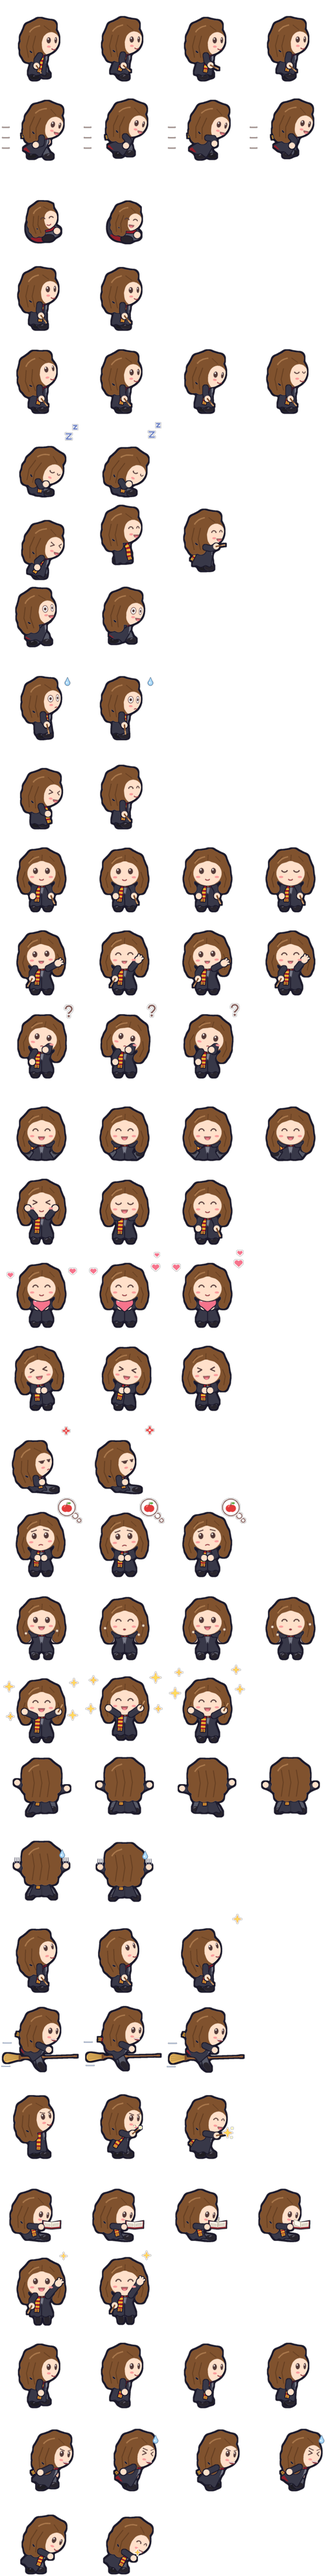
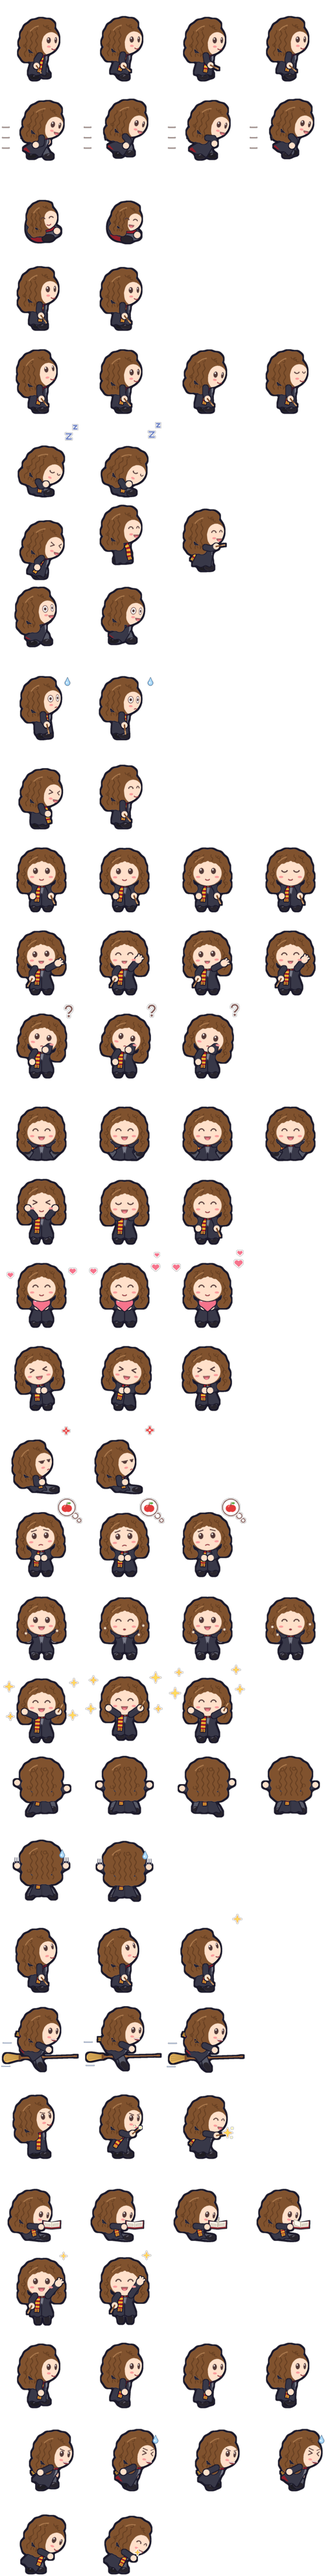
art(wizards): softer tufts for Harry, curly ramen-noodle hair for Hermione
Claude-Session: https://claude.ai/code/session_01QTKFeh88WdMrEuDr7Y72ss

diff --git a/tools/draw_hermione.py b/tools/draw_hermione.py
@@ -1,4 +1,4 @@
-"""헤르미온느 📚 — 갈색 부스스한 긴 머리, 검은 로브 + 그리핀도르 목도리, 짙은 나무 지팡이의 꼬마 마법사 펫(hermione).
+"""헤르미온느 📚 — 라면처럼 꼬불꼬불한 갈색 곱슬 긴 머리, 검은 로브 + 그리핀도르 목도리, 짙은 나무 지팡이의 꼬마 마법사 펫(hermione).
 몸·공통 동작은 draw_wizard를 쓰고, 여기서는 생김새(Look)·헤르미온느만의 동작·등록만.
 
     python tools/draw_hermione.py → ui/pets/hermione/{sheet_<stage>.png ×5, pet.json} + tools/preview/{stages_hermione,climb_hermione,wizard_hermione}.png
@@ -28,50 +28,79 @@ PAGE, PAGE_LINE = (255, 250, 238), (188, 178, 160)  # 책장·글줄
 
 
 def puffs(pts, r):
-    """부스스한 머리 덩어리: 점마다 동그라미 (녹이면 물결치는 실루엣)."""
+    """부스스한 머리 덩어리: 점마다 동그라미 (녹이면 몽글몽글 물결치는 실루엣)."""
     return [C(x, y, rr * r) for x, y, rr in pts]
 
 
+def squiggle(a, b, n, amp, w=1.1, ph=0.0):
+    """a → b 사이를 꼬불꼬불 (사인 물결 n번) 지나는 라면 머리 가닥."""
+    (x0, y0), (x1, y1) = a, b
+    ln = math.hypot(x1 - x0, y1 - y0) or 1.0
+    nx, ny = -(y1 - y0) / ln, (x1 - x0) / ln
+    k = max(8, int(n * 6))
+    pts = []
+    for j in range(k + 1):
+        t = j / k
+        o = amp * math.sin(t * n * 2 * math.pi + ph)
+        pts.append((x0 + (x1 - x0) * t + nx * o, y0 + (y1 - y0) * t + ny * o))
+    return L(pts, w)
+
+
+def curl(x, y, r, a0=30, w=1.0):
+    """동그랗게 말린 곱슬 한 올 (C자 고리)."""
+    return L(dp.arc(x, y, r, r, a0, a0 + 270, 9), w)
+
+
 def hermione_hair(view_, hx, hy, hrx, hry, q):
-    """부스스한 갈색 긴 머리: 머리 둘레를 울퉁불퉁 부풀려 어깨 아래까지 (뒷모습은 등을 덮되 벽 짚은 두 손은 보임), 얼굴은 가운데 가르마 앞머리가 감쌈.
+    """라면처럼 꼬불꼬불한 갈색 곱슬 긴 머리: 머리 둘레를 작은 동그라미로 촘촘히 부풀려 (몽글몽글 곱슬 실루엣) 어깨 아래까지,
+    안에는 꼬불꼬불 가닥·말린 고리 (뒷모습은 등을 덮되 벽 짚은 두 손은 보임), 얼굴은 가운데 가르마 앞머리가 감쌈 (눈은 가리지 않음).
     → (머리 도형에 더할 도형, 삐죽 조각, 머리 안 무늬)."""
     R = hrx
     big = [T((hx - hrx * 3, hy - hry * 3), (hx + hrx * 3, hy - hry * 3), (hx + hrx * 3, hy + hry * 3), (hx - hrx * 3, hy + hry * 3))]
-    shine = [L(dp.arc(hx, hy - 0.05 * hry, hrx * 0.86, hry * 0.86, 210, 258, 8), 2.0)]
+    shine = [L(dp.arc(hx, hy - 0.05 * hry, hrx * 0.86, hry * 0.86, 214, 252, 8), 1.8)]
+    amp = 0.06 * hrx
 
     def ring_(a0, a1, step, rx, ry, dy=0.0):
-        """머리 둘레 a0..a1도에 울퉁불퉁 (크고 작은 동그라미 번갈아) 머리숱."""
-        return [(hx + math.cos(math.radians(a)) * hrx * rx, hy + math.sin(math.radians(a)) * hry * ry + dy * hry, 0.34 if k % 2 else 0.27)
+        """머리 둘레 a0..a1도에 몽글몽글 (크고 작은 동그라미 번갈아) 곱슬 머리숱."""
+        return [(hx + math.cos(math.radians(a)) * hrx * rx, hy + math.sin(math.radians(a)) * hry * ry + dy * hry, 0.28 if k % 2 else 0.22)
                 for k, a in enumerate(range(a0, a1 + 1, step))]
+
+    def P(a, b):
+        """머리 크기 비율 좌표 → 그림 좌표."""
+        return (hx + a * hrx, hy + b * hry)
     if view_ == "back":
-        pts = ring_(-170, -10, 20, 0.92, 0.96)
-        pts += [(hx + sd * hrx * 0.86, hy + k * hry, 0.3) for sd in (-1, 1) for k in (0.2, 0.65)]
-        pts += [(hx + dx * hrx, hy + 1.18 * hry, 0.3 if abs(dx) > 0.5 else 0.34) for dx in (-0.66, -0.22, 0.22, 0.66)]
-        waves = [L([(hx + dx * hrx, hy - 0.5 * hry), (hx + (dx + 0.12) * hrx, hy + 0.3 * hry), (hx + dx * hrx, hy + 1.2 * hry)], 1.3) for dx in (-0.55, -0.1, 0.35)]
-        return puffs(pts, R), [], [(big, HAIR), (waves, HAIR_DARK), (shine, HAIR_HI)]
+        pts = ring_(-174, -6, 12, 1.04, 1.04)
+        pts += [(hx + sd * hrx * 0.92, hy + k * hry, 0.29 if j % 2 else 0.2) for sd in (-1, 1) for j, k in enumerate((0.1, 0.42, 0.74, 1.0))]
+        pts += [(hx + dx * hrx, hy + 1.2 * hry, 0.25 if j % 2 else 0.29) for j, dx in enumerate((-0.72, -0.42, -0.14, 0.14, 0.42, 0.72))]
+        waves = [squiggle(P(dx, -0.7), P(dx + 0.04, 1.15), 3.5, amp, 1.2, dx * 5) for dx in (-0.62, -0.3, 0.02, 0.34, 0.64)]
+        curls = [curl(*P(a, b), 0.1 * hrx, a0) for a, b, a0 in ((-0.5, -0.55, 200), (0.2, -0.6, 20), (-0.75, 0.6, 300), (0.78, 0.5, 120))]
+        return puffs(pts, R), [], [(big, HAIR), (waves + curls, HAIR_DARK), (shine, HAIR_HI)]
     if view_ == "front":
-        pts = ring_(-180, 0, 20, 0.98, 0.98, -0.08)
-        pts += [(hx + sd * hrx * 1.08, hy + k * hry, 0.32 if j % 2 else 0.27) for sd in (-1, 1) for j, k in enumerate((0.2, 0.55, 0.9))]
-        pts += [(hx + sd * hrx * 0.94, hy + 1.2 * hry, 0.28) for sd in (-1, 1)]
+        pts = ring_(-186, 6, 12, 1.06, 1.04, -0.08)
+        pts += [(hx + sd * hrx * (1.08 + 0.04 * (j % 2)), hy + k * hry, 0.29 if j % 2 else 0.2) for sd in (-1, 1)
+                for j, k in enumerate((0.1, 0.38, 0.66, 0.94))]
+        pts += [(hx + sd * hrx * dx, hy + 1.2 * hry, 0.24) for sd in (-1, 1) for dx in (0.84, 1.06)]
         face = [E(hx - 0.84 * hrx, hy - 0.62 * hry, hx + 0.84 * hrx, hy + 1.0 * hry)]
-        fringe = [T((hx - 1.2 * hrx, hy - 1.6 * hry), (hx + 1.2 * hrx, hy - 1.6 * hry), (hx + 1.0 * hrx, hy + 0.1 * hry), (hx + 0.78 * hrx, hy - 0.22 * hry),
-                    (hx + 0.52 * hrx, hy - 0.46 * hry), (hx + 0.22 * hrx, hy - 0.56 * hry), (hx + 0.02 * hrx, hy - 0.66 * hry),
-                    (hx - 0.24 * hrx, hy - 0.54 * hry), (hx - 0.54 * hrx, hy - 0.44 * hry), (hx - 0.8 * hrx, hy - 0.2 * hry), (hx - 1.0 * hrx, hy + 0.1 * hry))]
-        waves = [L([(hx + sd * 0.98 * hrx, hy + 0.1 * hry), (hx + sd * 1.12 * hrx, hy + 0.55 * hry), (hx + sd * 1.0 * hrx, hy + 1.1 * hry)], 1.3) for sd in (-1, 1)]
-        waves += [L([(hx + sd * 0.5 * hrx, hy - 0.9 * hry), (hx + sd * 0.75 * hrx, hy - 0.6 * hry)], 1.1) for sd in (-1, 1)]
-        waves += [L([(hx + 0.02 * hrx, hy - 0.66 * hry), (hx + 0.04 * hrx, hy - 1.0 * hry)], 1.1)]
-        return puffs(pts, R), [], [(big, HAIR), (face, wz.look().skin), (fringe, HAIR), (waves, HAIR_DARK), (shine, HAIR_HI)]
+        fringe = [T(P(-1.2, -1.6), P(1.2, -1.6), P(1.0, 0.1), P(0.88, -0.08), P(0.78, -0.22), P(0.66, -0.3), P(0.52, -0.46), P(0.38, -0.46),
+                    P(0.22, -0.56), P(0.12, -0.56), P(0.02, -0.66), P(-0.1, -0.56), P(-0.24, -0.54), P(-0.38, -0.44), P(-0.54, -0.44),
+                    P(-0.66, -0.3), P(-0.8, -0.2), P(-0.9, -0.06), P(-1.0, 0.1))]
+        waves = [squiggle(P(sd * 1.0, -0.2), P(sd * 1.02, 1.15), 3.0, amp, 1.2, sd) for sd in (-1, 1)]
+        waves += [squiggle(P(sd * 0.5, -0.98), P(sd * 0.82, -0.5), 1.5, amp * 0.8, 1.0) for sd in (-1, 1)]
+        waves += [squiggle(P(sd * 0.22, -1.02), P(sd * 0.3, -0.62), 1.2, amp * 0.7, 1.0) for sd in (-1, 1)]
+        curls = [curl(*P(sd * 1.1, b), 0.09 * hrx, a0) for sd in (-1, 1) for b, a0 in ((0.25, 90 + sd * 60), (0.85, 270 - sd * 60))]
+        curls += [curl(*P(sd * 0.68, -0.86), 0.08 * hrx, 200 if sd < 0 else -20) for sd in (-1, 1)]
+        return puffs(pts, R), [], [(big, HAIR), (face, wz.look().skin), (fringe, HAIR), (waves + curls, HAIR_DARK), (shine, HAIR_HI)]
     # 옆모습 (오른쪽을 봄): 앞쪽은 이마를 덮는 앞머리, 뒤로는 크게 부풀어 등까지
-    pts = ring_(-200, -60, 20, 0.96, 0.98, -0.05)
-    pts += [(hx - hrx * 1.0, hy + k * hry, 0.34 if j % 2 else 0.28) for j, k in enumerate((0.0, 0.45, 0.9))]
-    pts += [(hx + dx * hrx, hy + 1.2 * hry, 0.3) for dx in (-0.8, -0.38)]
+    pts = ring_(-204, -54, 12, 1.04, 1.04, -0.05)
+    pts += [(hx - hrx * (1.02 + 0.06 * (j % 2)), hy + k * hry, 0.3 if j % 2 else 0.21) for j, k in enumerate((-0.05, 0.28, 0.6, 0.92))]
+    pts += [(hx + dx * hrx, hy + 1.2 * hry, 0.25 if j % 2 else 0.28) for j, dx in enumerate((-0.92, -0.62, -0.32))]
     face = [E(hx - 0.02 * hrx, hy - 0.5 * hry, hx + 1.1 * hrx, hy + 1.05 * hry)]
-    fringe = [T((hx - 1.3 * hrx, hy - 1.6 * hry), (hx + 1.3 * hrx, hy - 1.6 * hry), (hx + 1.12 * hrx, hy - 0.4 * hry), (hx + 0.86 * hrx, hy - 0.5 * hry),
-                (hx + 0.56 * hrx, hy - 0.56 * hry), (hx + 0.3 * hrx, hy - 0.5 * hry), (hx + 0.08 * hrx, hy - 0.26 * hry), (hx - 0.02 * hrx, hy + 0.2 * hry),
-                (hx + 0.02 * hrx, hy + 0.7 * hry), (hx - 0.3 * hrx, hy + 1.5 * hry), (hx - 1.3 * hrx, hy + 1.5 * hry))]
-    waves = [L([(hx - dx * hrx, hy - 0.2 * hry), (hx - (dx + 0.14) * hrx, hy + 0.5 * hry), (hx - dx * hrx, hy + 1.2 * hry)], 1.3) for dx in (0.4, 0.78)]
-    waves += [L([(hx + 0.1 * hrx, hy - 0.9 * hry), (hx + 0.45 * hrx, hy - 0.62 * hry)], 1.1)]
-    return puffs(pts, R), [], [(big, HAIR), (face, wz.look().skin), (fringe, HAIR), (waves, HAIR_DARK), (shine, HAIR_HI)]
+    fringe = [T(P(-1.3, -1.6), P(1.3, -1.6), P(1.12, -0.4), P(0.98, -0.5), P(0.86, -0.46), P(0.72, -0.58), P(0.56, -0.52), P(0.42, -0.6),
+                P(0.3, -0.48), P(0.16, -0.42), P(0.08, -0.26), P(-0.02, 0.2), P(0.02, 0.7), P(-0.3, 1.5), P(-1.3, 1.5))]
+    waves = [squiggle(P(-dx, -0.5), P(-dx - 0.06, 1.15), 3.0, amp, 1.2, dx * 4) for dx in (0.3, 0.62, 0.92)]
+    waves += [squiggle(P(0.05, -0.95), P(0.5, -0.66), 1.5, amp * 0.8, 1.0)]
+    curls = [curl(*P(a, b), 0.09 * hrx, a0) for a, b, a0 in ((-0.4, -0.7, 200), (-1.0, 0.45, 300), (-0.5, 1.0, 120), (0.3, -0.84, 20))]
+    return puffs(pts, R), [], [(big, HAIR), (face, wz.look().skin), (fringe, HAIR), (waves + curls, HAIR_DARK), (shine, HAIR_HI)]
 
 
 def apple_bubble_fx(cx, cy, r=12.0):

diff --git a/tools/draw_harry.py b/tools/draw_harry.py
@@ -1,4 +1,4 @@
-"""해리포터 🧙 — 둥근 까만 안경, 이마의 번개 흉터, 덥수룩 삐죽 까만 머리, 검은 로브 + 그리핀도르 목도리, 밝은 나무 지팡이의 꼬마 마법사 펫(harry).
+"""해리포터 🧙 — 둥근 까만 안경, 이마의 번개 흉터, 덥수룩 몽글몽글 까만 머리, 검은 로브 + 그리핀도르 목도리, 밝은 나무 지팡이의 꼬마 마법사 펫(harry).
 몸·동작은 draw_wizard (볼드모트도 나중에 같은 몸)를 쓰고, 여기서는 생김새(Look)와 등록만.
 
     python tools/draw_harry.py → ui/pets/harry/{sheet_<stage>.png ×5, pet.json} + tools/preview/{stages_harry,climb_harry,wizard_harry}.png
@@ -7,6 +7,7 @@
 특기 (코어): 🧹 broom 빗자루 날기 (pet.json broom_rider) · ✨ cast 주문 (spells: expelliarmus·leviosa) · 🟡 골든 스니치 쫓기 (seeker — 빗자루 그림으로).
 """
 
+import math
 import sys
 from pathlib import Path
 
@@ -25,43 +26,50 @@ CANDY, CANDY_HI = (246, 112, 150), (255, 196, 214)  # 🍬 사탕 생각 풍선
 
 
 def spikes_at(hx, hy, hrx, hry, angles, k=1.3):
-    """머리 둘레 angles(도, 0 = 오른쪽, -90 = 위)에서 바깥으로 솟은 삐죽 머리카락 (뾰족한 삼각)."""
-    import math
+    """머리 둘레 angles(도, 0 = 오른쪽, -90 = 위)에서 바깥으로 살짝 솟은 짧은 머리 끝 (작은 삼각 — 덥수룩한 느낌만)."""
     out = []
     for a, kk in angles:
         r = math.radians(a)
-        b0 = (hx + hrx * 0.92 * math.cos(r - 0.2), hy + hry * 0.92 * math.sin(r - 0.2))
-        b1 = (hx + hrx * 0.92 * math.cos(r + 0.2), hy + hry * 0.92 * math.sin(r + 0.2))
-        tip = (hx + hrx * k * kk * math.cos(r + 0.08), hy + hry * k * kk * math.sin(r + 0.08))
+        b0 = (hx + hrx * 0.9 * math.cos(r - 0.17), hy + hry * 0.9 * math.sin(r - 0.17))
+        b1 = (hx + hrx * 0.9 * math.cos(r + 0.17), hy + hry * 0.9 * math.sin(r + 0.17))
+        tip = (hx + hrx * k * kk * math.cos(r + 0.1), hy + hry * k * kk * math.sin(r + 0.1))
         out.append(T(b0, tip, b1))
     return out
 
 
+def tufts_at(hx, hy, hrx, hry, angles, d=1.04, r=0.25):
+    """머리 둘레 angles(도)에 동그란 머리 뭉치 (녹이면 몽글몽글 부드러운 실루엣) — (각도, 크기 배율)."""
+    return [C(hx + hrx * d * math.cos(math.radians(a)), hy + hry * d * math.sin(math.radians(a)), hrx * r * kk) for a, kk in angles]
+
+
 def harry_hair(view_, hx, hy, hrx, hry, q):
-    """덥수룩한 까만 머리: 정수리 볼륨 + 사방으로 삐죽 + 앞머리 끝선이 들쭉날쭉 (이마 가운데 오른쪽에 흉터 자리를 비움).
-    → (머리 도형에 더할 도형, 삐죽 조각, 머리 안 무늬)."""
+    """덥수룩한 까만 머리: 정수리 볼륨 + 둘레에 몽글몽글 둥근 머리 뭉치 + 짧은 삐침 몇 가닥 + 앞머리 끝선이 부드럽게 들쭉날쭉
+    (이마 가운데 오른쪽에 흉터 자리를 비움). → (머리 도형에 더할 도형, 삐죽 조각, 머리 안 무늬)."""
     sky = hy - hry * 1.6 - q - 8
     shine = [L(dp.arc(hx, hy, hrx * 0.74, hry * 0.74, 215, 262, 8), 2.0)]
     if view_ == "back":
-        sp = spikes_at(hx, hy, hrx, hry, [(-170, 1.0), (-140, 1.05), (-112, 1.1), (-85, 1.05), (-58, 1.1), (-30, 1.05), (-8, 0.98)], 1.22)
+        tf = tufts_at(hx, hy, hrx, hry, [(-165, 0.95), (-135, 1.05), (-105, 1.0), (-75, 1.05), (-45, 1.0), (-15, 0.95)])
+        sp = spikes_at(hx, hy, hrx, hry, [(-170, 1.0), (-120, 1.04), (-90, 1.06), (-58, 1.04), (-10, 1.0)], 1.2)
         marks = [([T((hx - hrx * 2, sky), (hx + hrx * 2, sky), (hx + hrx * 2, hy + 0.55 * hry), (hx - hrx * 2, hy + 0.55 * hry))], HAIR), (shine, HAIR_HI)]
-        nape = [T((hx - 0.7 * hrx, hy + 0.5 * hry), (hx - 0.45 * hrx, hy + 0.98 * hry), (hx - 0.2 * hrx, hy + 0.55 * hry),
-                  (hx + 0.05 * hrx, hy + 1.0 * hry), (hx + 0.3 * hrx, hy + 0.55 * hry), (hx + 0.5 * hrx, hy + 0.95 * hry), (hx + 0.72 * hrx, hy + 0.5 * hry))]
-        return [E(hx - 0.95 * hrx, hy - hry - q, hx + 0.95 * hrx, hy)], sp, marks + [(nape, HAIR)]
+        nape = [T((hx - 0.7 * hrx, hy + 0.5 * hry), (hx - 0.45 * hrx, hy + 0.9 * hry), (hx - 0.2 * hrx, hy + 0.62 * hry),
+                  (hx + 0.05 * hrx, hy + 0.92 * hry), (hx + 0.3 * hrx, hy + 0.62 * hry), (hx + 0.5 * hrx, hy + 0.88 * hry), (hx + 0.72 * hrx, hy + 0.5 * hry))]
+        return [E(hx - 0.95 * hrx, hy - hry - q, hx + 0.95 * hrx, hy)] + tf, sp, marks + [(nape, HAIR)]
     if view_ == "front":
-        sp = spikes_at(hx, hy, hrx, hry, [(-165, 1.0), (-138, 1.08), (-112, 1.12), (-88, 1.06), (-64, 1.12), (-38, 1.06), (-14, 0.98)], 1.2)
-        z = [(1.2, 0.12), (0.95, -0.02), (0.8, -0.3), (0.62, -0.14), (0.46, -0.44), (0.3, -0.3), (0.16, -0.62), (-0.04, -0.34),
-             (-0.22, -0.56), (-0.42, -0.28), (-0.6, -0.5), (-0.78, -0.2), (-0.95, -0.04), (-1.2, 0.12)]
+        tf = tufts_at(hx, hy, hrx, hry, [(-160, 0.9), (-130, 1.0), (-100, 1.05), (-72, 1.0), (-44, 1.0), (-18, 0.9)])
+        sp = spikes_at(hx, hy, hrx, hry, [(-168, 1.0), (-116, 1.05), (-86, 1.06), (-56, 1.05), (-12, 1.0)], 1.2)
+        z = [(1.2, 0.12), (0.95, -0.04), (0.8, -0.26), (0.62, -0.2), (0.46, -0.4), (0.3, -0.34), (0.16, -0.52), (-0.04, -0.38),
+             (-0.22, -0.5), (-0.42, -0.32), (-0.6, -0.42), (-0.78, -0.2), (-0.95, -0.04), (-1.2, 0.12)]
         edge = [(hx + a * hrx, hy + b * hry) for a, b in z]
         ears = [E(hx + sd * hrx - 3.2, hy + 0.04 * hry - 4.6, hx + sd * hrx + 3.2, hy + 0.04 * hry + 4.6) for sd in (-1, 1)]
-        return [E(hx - 0.95 * hrx, hy - hry - q, hx + 0.95 * hrx, hy - 0.2 * hry)] + ears, sp, \
+        return [E(hx - 0.95 * hrx, hy - hry - q, hx + 0.95 * hrx, hy - 0.2 * hry)] + ears + tf, sp, \
             [([T(*edge, (hx - hrx * 1.3, sky), (hx + hrx * 1.3, sky))], HAIR), (shine, HAIR_HI)]
-    # 옆모습 (오른쪽을 봄): 앞머리는 이마 위에서 삐죽, 뒤통수·목덜미까지 머리
-    sp = spikes_at(hx, hy, hrx, hry, [(-178, 1.0), (-150, 1.08), (-122, 1.12), (-95, 1.1), (-68, 1.08), (-42, 1.04), (162, 1.0)], 1.2)
-    z = [(1.2, -0.4), (0.95, -0.48), (0.8, -0.28), (0.62, -0.5), (0.46, -0.32), (0.3, -0.52), (0.14, -0.22), (0.02, 0.06),
-         (-0.06, 0.3), (-0.3, 0.46), (-0.48, 0.72), (-0.62, 0.58), (-0.82, 0.8), (-1.2, 0.72)]
+    # 옆모습 (오른쪽을 봄): 앞머리는 이마 위에서 몽글, 뒤통수·목덜미까지 머리
+    tf = tufts_at(hx, hy, hrx, hry, [(-175, 1.0), (-148, 1.05), (-120, 1.05), (-92, 1.0), (-64, 0.95), (172, 0.9)])
+    sp = spikes_at(hx, hy, hrx, hry, [(-180, 1.0), (-134, 1.05), (-106, 1.07), (-78, 1.05), (-40, 1.02)], 1.2)
+    z = [(1.2, -0.4), (0.95, -0.46), (0.8, -0.32), (0.62, -0.46), (0.46, -0.34), (0.3, -0.46), (0.14, -0.24), (0.02, 0.06),
+         (-0.06, 0.3), (-0.3, 0.46), (-0.48, 0.66), (-0.62, 0.6), (-0.82, 0.74), (-1.2, 0.72)]
     edge = [(hx + a * hrx, hy + b * hry) for a, b in z]
-    return [E(hx - 0.2 * hrx, hy - hry - q, hx + 0.9 * hrx, hy - 0.4 * hry)], sp, \
+    return [E(hx - 0.2 * hrx, hy - hry - q, hx + 0.9 * hrx, hy - 0.4 * hry)] + tf, sp, \
         [([T(*edge, (hx - hrx * 1.3, sky), (hx + hrx * 1.3, sky))], HAIR), (shine, HAIR_HI)]
 
 
